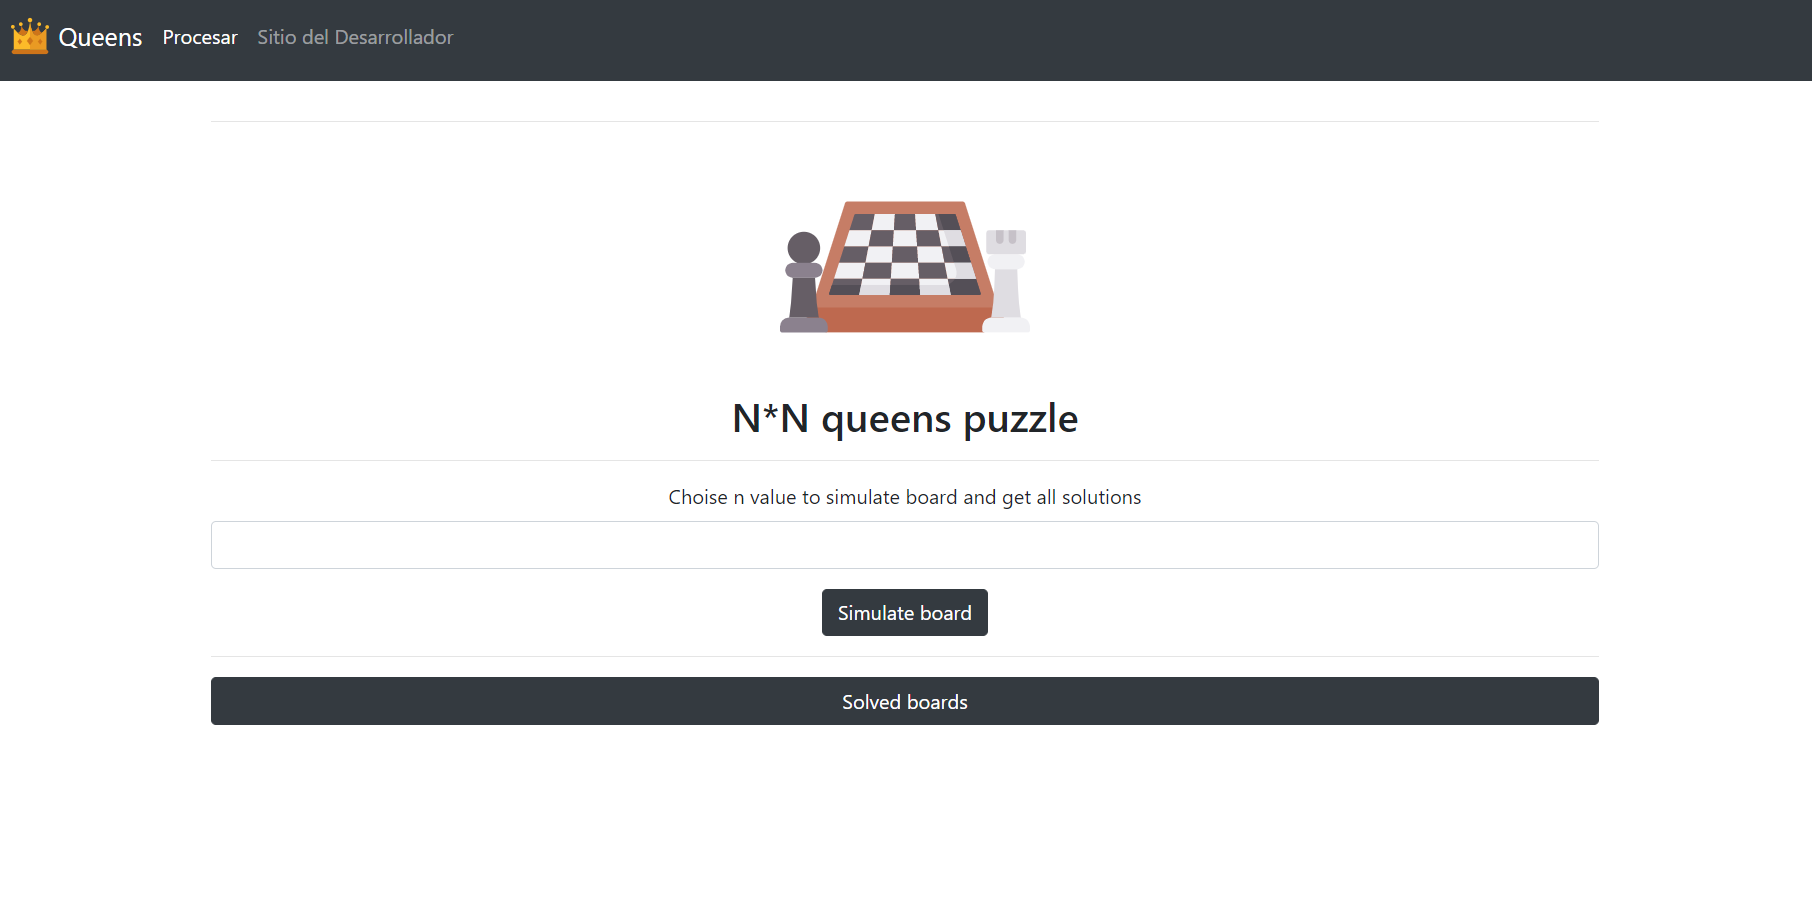
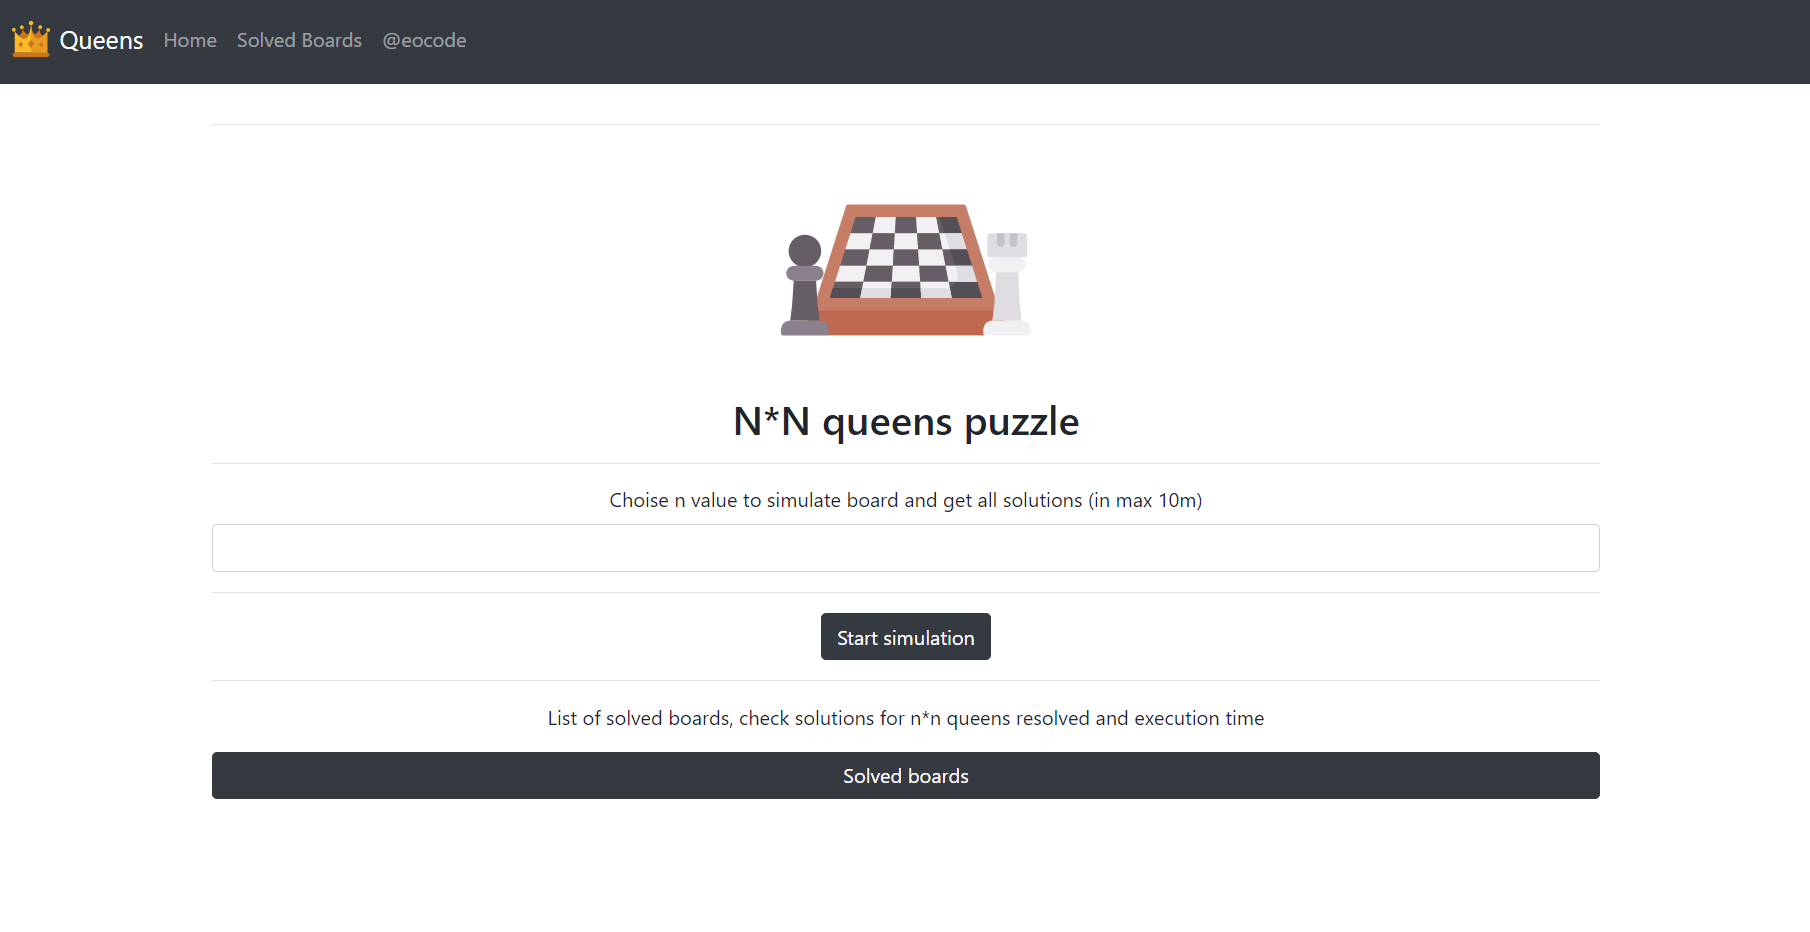
fix: Update test enviroment

diff --git a/modules/queens/templates/index.html b/modules/queens/templates/index.html
@@ -25,6 +25,7 @@
                     </button>
                 </form>
                 <hr/>
+                <p class="text-center">List of solved boards, check solutions for n*n queens resolved and execution time</p>
                 <div class="text-center">
                     <a href="/boards" class="btn btn-dark btn-block">
                         Solved boards

diff --git a/tests/test_database_utils.py b/tests/test_database_utils.py
@@ -12,19 +12,6 @@ n = 10
 solutions = 724
 
 
-def test_create_simulation(app):
-    with app.test_request_context("/"):
-        simulation = Simulation(
-            id=n,
-            solutions=solutions,
-            time_start=datetime.now(),
-            time_end=datetime.now(),
-            minutes=0,
-        )
-        a = add(simulation)
-        assert isinstance(a, Simulation)
-
-
 def test_database_create_or_update(app):
     """Create test data in app"""
     with app.test_request_context("/"):

diff --git a/app/__init__.py b/app/__init__.py
@@ -32,4 +32,4 @@ def create_app(test_config=None):
     return app
 
 
-queen = create_app()
+queen = create_app(test_config=True)

diff --git a/README.md b/README.md
@@ -30,6 +30,7 @@
   - [Dependencies](#dependencies)
   - [Features](#features)
   - [Development tools](#development-tools)
+- [Considerations](#considerations)
 - [How to use](#how-to-use)
   - [Based on a cookiecutter technique](#based-on-a-cookiecutter-technique)
   - [How to clone](#how-to-clone)
@@ -52,10 +53,16 @@ Main view, choise n board and simulate the game, if it has been calculated, the 
   <img src="/app/img/demo.png" alt="Demo Queens">
 </div>
 
-Next view all possible solutions
+All possible solutions paginated, with option to regenerate. (You can improve the algorithm and see the new result)
 
 <div align="center">
   <img src="/app/img/demo_2.png" alt="Demo Queens">
+</div>
+
+See board of processed solutions with your elapsed time, support n queens until 10 mins
+
+<div align="center">
+  <img src="/app/img/demo_3.png" alt="Demo Queens">
 </div>
 
 # The n*n queens problem
@@ -182,6 +189,10 @@ Time in minutes
 
 * Pycharm - IDE
 * Black - Code format
+
+# Considerations
+
+* Coverage > 90%
 
 # How to use
 
